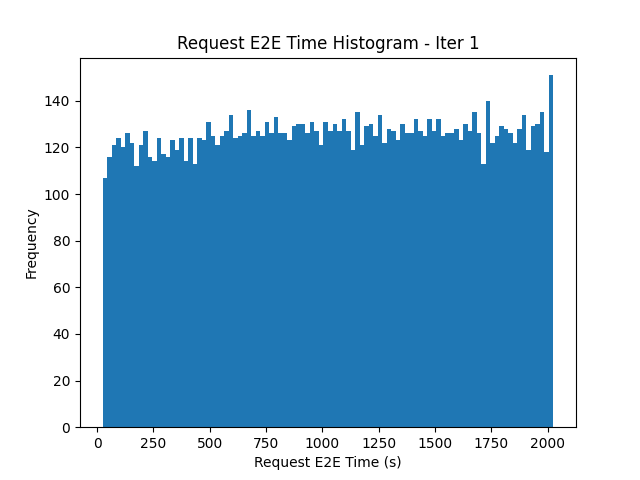
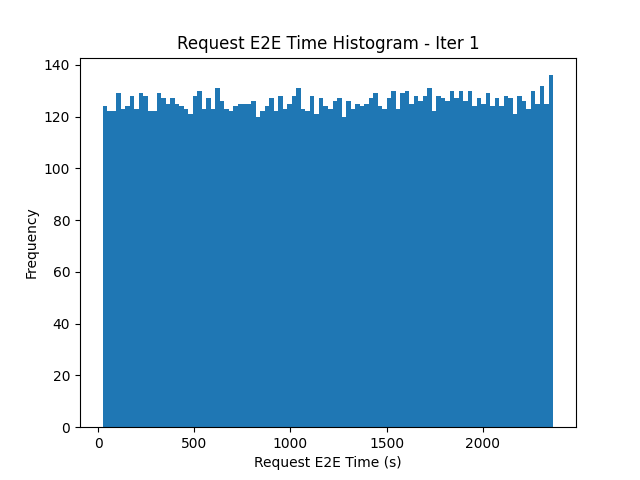
send requests in batch script and generated figs/stats

diff --git a/scripts/batch_requests_verifier.py b/scripts/batch_requests_verifier.py
@@ -1,0 +1,85 @@
+# python scripts/batch_requests_verifier.py --prompt_file_dir profile_logs --prompt_file_prefix past_generation_result_iter --config_path examples/methods/my_config.yaml --output_dir profile_logs/IterativePipeline/batch_requests/ --batch_size 256
+# This is to verify what the cdf of the prefill and decode latency looks like if requests are sent all at once
+import argparse, json, os, time
+from vllm import LLM
+from flashrag.config import Config
+from flashrag.generator import BaseGenerator
+from flashrag.utils import get_generator
+from tqdm import tqdm
+
+# Given log file with format *iter_x.txt extract iter_x
+def extract_iter_num(log_file):
+    return log_file.split('_')[-1].split('.')[0]
+
+def main():
+    parser = argparse.ArgumentParser(description='Send prompts to vLLM inference system.')
+    parser.add_argument('--prompt_file_prefix', type=str, required=True, help='Prefix for JSON file containing prompts.')
+    parser.add_argument('--prompt_file_dir', type=str, required=True, help='Path to directory containing prompts.')
+    # config args
+    parser.add_argument('--config_path', type=str, required=True, help='Path to config')
+    # batch argument
+    parser.add_argument('--batch_size', type=int, required=True, help='Batch size for generation.')
+    # output args
+    parser.add_argument('--output_dir', type=str, default='profile_logs/IterativePipeline/all_requests/', help='Path to output directory.')
+    args = parser.parse_args()
+    
+    output_dir = os.path.join(args.output_dir, str(args.batch_size))
+
+    # make output directory if it doesn't exist
+    os.makedirs(output_dir, exist_ok=True)
+
+    # config = Config("examples/methods/my_config.yaml",)
+    config = Config(args.config_path,)
+    print(config)
+    generator: BaseGenerator = get_generator(config)
+
+    # list of prompt directory and keep files with prompt_file_prefix
+    prompt_files = [os.path.join(args.prompt_file_dir, f) for f in os.listdir(args.prompt_file_dir) if os.path.isfile(os.path.join(args.prompt_file_dir, f)) and f.startswith(args.prompt_file_prefix)]
+
+    # sort prompt_files by iter number
+    prompt_files.sort(key=lambda x: extract_iter_num(x))
+
+    for prompt_file in prompt_files:
+
+        iter_idx = extract_iter_num(prompt_file)
+
+        print(f"Processing {prompt_file} with iter_idx {iter_idx}")
+        
+        with open(prompt_file, 'r', encoding="utf-8") as f:
+            prompts = [data['prompt'] for data in json.load(f)]
+
+            stored_output = []
+            batch_output = {}
+
+            batch_size = args.batch_size
+            for i in tqdm(range(0, len(prompts), batch_size)):
+                batch_prompts = prompts[i:i+batch_size]
+                start_time = time.time()
+                outputs = generator.generate(batch_prompts, return_raw_output=True)
+                end_time = time.time()
+                for output in outputs:
+                    stored_output.append({
+                        'request_id' : output.request_id,
+                        'prediction' : output.outputs[0].text,
+                        'prompt' : output.prompt,
+                        'metrics' : {
+                            'arrival_time' : output.metrics.arrival_time,
+                            'last_token_time' : output.metrics.last_token_time,
+                            'first_scheduled_time' : output.metrics.first_scheduled_time,
+                            'first_token_time' : output.metrics.first_token_time,
+                            'time_in_queue' : output.metrics.time_in_queue,
+                            'finished_time' : output.metrics.finished_time,
+                            'scheduler_time' : output.metrics.scheduler_time,
+                        }
+                    })
+                batch_output[i] = (stored_output, start_time, end_time - start_time)
+                
+        # log batch generation time
+        open(os.path.join(output_dir,f"generation_time_iter_{iter_idx}.txt"), "w").write(json.dumps(batch_output))
+                
+
+        # # log past_generation_result
+        # open(os.path.join(args.output_dir,f"generation_result_iter_{iter_idx}.txt"), "w").write(json.dumps(stored_output))
+
+if __name__ == '__main__':
+    main()
